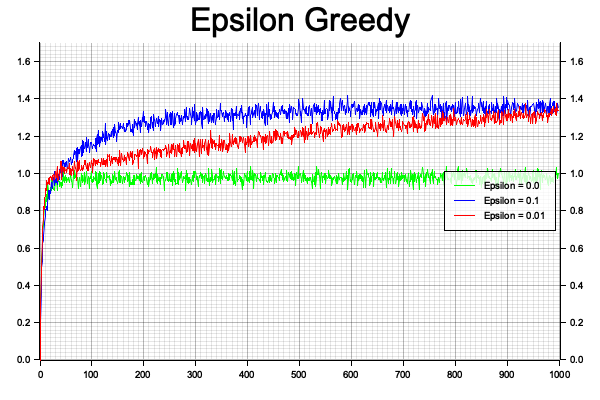
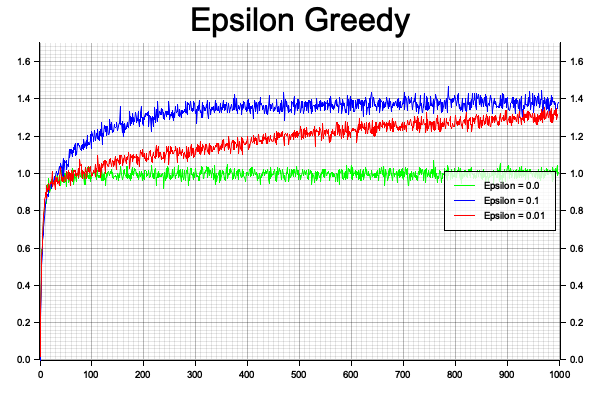
Update state action responsibility

Changed region(s): [[0.06, 0.21, 0.93, 0.6], [0.06, 0.72, 0.09, 0.75], [0.06, 0.63, 0.09, 0.66]]

diff --git a/src/agent.rs b/src/agent.rs
@@ -5,23 +5,39 @@ pub struct Agent<T: Environment, U: Selector, S: Store> {
     selector: U,
     q_store: S,
     state_value_store: S,
+    store_action_count: S,
+    total_actions_taken: usize,
 }
 
 impl<T: Environment, U: Selector, S: Store> Agent<T, U, S> {
-    pub fn new(environment: T, selector: U, q_store: S, state_value_store: S) -> Agent<T, U, S> {
+    pub fn new(
+        environment: T,
+        selector: U,
+        q_store: S,
+        state_value_store: S,
+        store_action_count: S
+    ) -> Agent<T, U, S> {
         Agent {
             environment,
             selector,
             q_store: q_store,
             state_value_store: state_value_store,
+            store_action_count,
+            total_actions_taken: 0,
         }
     }
 
     pub fn select_action(&mut self) -> usize {
-        self.selector.select_action(&mut self.environment, &self.q_store)
+        self.selector.select_action(&mut self.environment, &self.q_store, &self.store_action_count)
     }
 
     pub fn take_action(&mut self, action: usize) -> f64 {
+        // record action taken
+        let current_state = self.environment.get_state();
+        let id = self.store_action_count.generate_id(current_state, action);
+        let current_count = self.store_action_count.get_float(&id);
+        self.store_action_count.store_float(id, current_count + 1.0);
+        // take step
         self.environment.step(action)
     }
 
@@ -29,6 +45,7 @@ impl<T: Environment, U: Selector, S: Store> Agent<T, U, S> {
         let new_estimate = self.selector.get_new_q_estimate(
             &mut self.environment,
             &mut self.q_store,
+            &mut self.store_action_count,
             state,
             action,
             reward
@@ -50,10 +67,11 @@ impl<T: Environment, U: Selector, S: Store> Agent<T, U, S> {
 
     pub fn get_q_estimate(&self, state: usize, action: usize) -> f64 {
         let id = self.generate_id(state, action);
-        self.q_store.get_float(id)
+        self.q_store.get_float(&id)
     }
-    pub fn get_action_counts_by_state(&self, state: usize) -> Vec<usize> {
-        self.environment.action_counts_by_state(state)
+
+    pub fn get_total_actions_taken(&self) -> usize {
+        self.total_actions_taken
     }
 
     fn generate_id(&self, state: usize, action: usize) -> String {
@@ -61,12 +79,20 @@ impl<T: Environment, U: Selector, S: Store> Agent<T, U, S> {
     }
 }
 
+pub trait State {}
+
 pub trait Selector {
-    fn select_action<T: Environment, S: Store>(&self, environment: &mut T, store: &S) -> usize;
+    fn select_action<T: Environment, S: Store>(
+        &self,
+        environment: &mut T,
+        store: &S,
+        store_action_count: &S
+    ) -> usize;
     fn get_new_q_estimate<T: Environment, S: Store>(
         &self,
         environment: &mut T,
         store: &S,
+        store_action_count: &S,
         state: usize,
         action: usize,
         reward: f64

diff --git a/src/environments/blackjack.rs b/src/environments/blackjack.rs
@@ -1,9 +1,12 @@
 use rand::Rng;
 
+use crate::environment::Environment;
+
 pub struct Blackjack {
     pub dealer: Dealer,
     pub player: Player,
     pub is_player_turn: bool,
+    pub step_count: usize,
 }
 
 pub struct Dealer {
@@ -36,34 +39,44 @@ impl Blackjack {
             dealer: Dealer::new(),
             player: Player::new(),
             is_player_turn: true,
+            step_count: 0,
         }
     }
+}
 
-    pub fn reset(&mut self) {
+impl Environment for Blackjack {
+    fn reset(&mut self) {
         self.dealer = Dealer::new();
         self.player = Player::new();
         self.is_player_turn = true;
     }
 
-    pub fn step(&mut self, action: usize) -> f64 {
+    fn step(&mut self, action: usize) -> f64 {
         if self.is_player_turn {
             match action {
+                // hit case
                 0 => self.player.draw_card(),
+                // stay case
                 1 => {
                     self.is_player_turn = false;
                 }
                 _ => panic!("Invalid action"),
             }
         } else {
+            // play fixed dealer strategy if not player's turn
             while self.dealer.get_sum() < 17 {
                 self.dealer.draw_card();
             }
         }
+        // check if player busted
         if self.is_player_turn {
+            self.step_count += 1;
             if self.player.did_bust() {
                 return -1.0;
             }
         } else {
+            // if player is still alive comapre hand vs dealer's
+            // and return appropriate reward
             if self.dealer.did_bust() {
                 return 1.0;
             } else if self.dealer.get_sum() > self.player.get_sum() {
@@ -75,6 +88,35 @@ impl Blackjack {
             }
         }
         0.0
+    }
+
+    fn get_state(&self) -> usize {
+        let player_sum = self.player.get_sum();
+        let dealer_sum = self.dealer.get_sum();
+        let usable_ace = self.player.usable_ace;
+        // here we are using a simple encoding of the state
+        let state = (player_sum - 12) * 9 * 2 + (dealer_sum - 2) * 2 + (usable_ace as i32);
+        state as usize
+    }
+
+    fn get_actions(&self) -> Vec<usize> {
+        vec![0, 1]
+    }
+
+    fn is_terminal(&self) -> bool {
+        self.player.did_bust() || self.dealer.did_bust()
+    }
+
+    fn get_number_of_possible_actions(&self) -> usize {
+        2
+    }
+
+    fn get_number_of_possible_states(&self) -> usize {
+        9 * 10 * 2
+    }
+
+    fn get_total_number_of_actions_taken(&self) -> usize {
+        self.step_count
     }
 }
 

diff --git a/src/selectors/ucb.rs b/src/selectors/ucb.rs
@@ -13,7 +13,12 @@ impl UCBSelector {
 }
 
 impl Selector for UCBSelector {
-    fn select_action<T: Environment, S: Store>(&self, environment: &mut T, store: &S) -> usize {
+    fn select_action<T: Environment, S: Store>(
+        &self,
+        environment: &mut T,
+        store: &S,
+        store_action_count: &S
+    ) -> usize {
         let mut max: f64 = 0.0;
         let mut max_index = 0;
         let num_actions = environment.get_number_of_possible_actions();
@@ -21,11 +26,13 @@ impl Selector for UCBSelector {
         let state = environment.get_state();
         for i in 0..num_actions {
             let id = store.generate_id(state, i);
-            let current_value_estimate = store.get_float(id);
-            let number_of_actions_for_state = environment.get_action_count_by_state(state, i);
+            let current_value_estimate = store.get_float(&id);
+            let action_count_id = store_action_count.generate_id(state, i);
+            // number of actions for state action pair
+            let state_action_count = store_action_count.get_float(&action_count_id);
             let confidence = (
                 (self.confidence_level * (num_pulls as f64).ln()) /
-                (number_of_actions_for_state as f64)
+                (state_action_count as f64)
             ).sqrt();
 
             let ucb = current_value_estimate + confidence;
@@ -41,13 +48,15 @@ impl Selector for UCBSelector {
         &self,
         environment: &mut T,
         store: &S,
+        store_action_count: &S,
         state: usize,
         action: usize,
         reward: f64
     ) -> f64 {
-        let current_pulls = environment.get_action_count_by_state(state, action);
+        let action_id = store_action_count.generate_id(state, action);
+        let current_pulls = store_action_count.get_float(&action_id);
         let id = store.generate_id(state, action);
-        let current_action_value_estimate = store.get_float(id);
+        let current_action_value_estimate = store.get_float(&id);
         let new_action_value_estimate =
             current_action_value_estimate +
             (1.0 / (current_pulls as f64)) * (reward - current_action_value_estimate);

diff --git a/src/selectors/epsilon_greedy.rs b/src/selectors/epsilon_greedy.rs
@@ -15,7 +15,12 @@ impl EpsilonGreedySelector {
 }
 
 impl Selector for EpsilonGreedySelector {
-    fn select_action<T: Environment, S: Store>(&self, environment: &mut T, store: &S) -> usize {
+    fn select_action<T: Environment, S: Store>(
+        &self,
+        environment: &mut T,
+        store: &S,
+        _store_action_count: &S
+    ) -> usize {
         let mut rng = rand::thread_rng();
         let state = environment.get_state();
         // generate random number between 0 and 1
@@ -28,7 +33,7 @@ impl Selector for EpsilonGreedySelector {
             let mut max_index = 0;
             for i in 0..number_of_possible_actions {
                 let id = store.generate_id(state, i);
-                let current_q_estimate = store.get_float(id);
+                let current_q_estimate = store.get_float(&id);
                 if current_q_estimate >= max {
                     max = current_q_estimate;
                     max_index = i;
@@ -42,13 +47,15 @@ impl Selector for EpsilonGreedySelector {
         &self,
         environment: &mut T,
         store: &S,
+        store_action_count: &S,
         state: usize,
         action: usize,
         reward: f64
     ) -> f64 {
-        let current_pulls = environment.get_action_count_by_state(state, action);
+        let action_id = store_action_count.generate_id(state, action);
+        let current_pulls = store_action_count.get_float(&action_id);
         let id = store.generate_id(state, action);
-        let current_q_estimate = store.get_float(id);
+        let current_q_estimate = store.get_float(&id);
         let new_q_estimate =
             current_q_estimate + (1.0 / (current_pulls as f64)) * (reward - current_q_estimate);
         new_q_estimate

diff --git a/src/environments/bandit.rs b/src/environments/bandit.rs
@@ -169,11 +169,6 @@ impl Environment for KArmedBandit {
         false
     }
 
-    fn get_value_estimate(&self, _state: usize) -> f64 {
-        // do nothing
-        panic!("Not implemented")
-    }
-
     fn get_number_of_possible_actions(&self) -> usize {
         self.k
     }
@@ -182,18 +177,7 @@ impl Environment for KArmedBandit {
         1
     }
 
-    fn get_action_count_by_state(&self, _state: usize, action: usize) -> usize {
-        self.get_number_of_pulls_by_index(action)
-    }
-
     fn get_total_number_of_actions_taken(&self) -> usize {
         self.num_pulls
-    }
-    fn action_counts_by_state(&self, _state: usize) -> Vec<usize> {
-        let mut action_counts = vec![];
-        for i in 0..self.k {
-            action_counts.push(self.get_number_of_pulls_by_index(i));
-        }
-        action_counts
     }
 }

diff --git a/src/store.rs b/src/store.rs
@@ -1,11 +1,11 @@
 use std::collections::HashMap;
 
-pub trait Store{
+pub trait Store {
     fn generate_id(&self, state: usize, action: usize) -> String {
         format!("{}-{}", state, action)
     }
     fn store_float(&mut self, key: String, value: f64);
-    fn get_float(&self, key: String) -> f64;
+    fn get_float(&self, key: &String) -> f64;
     fn new() -> Self;
 }
 
@@ -17,10 +17,10 @@ impl Store for MemoryStore {
     fn store_float(&mut self, key: String, value: f64) {
         self.store.insert(key, value);
     }
-    fn get_float(&self, key: String) -> f64 {
-        match self.store.get(&key) {
+    fn get_float(&self, key: &String) -> f64 {
+        match self.store.get(key) {
             Some(value) => *value,
-            None => 0.0
+            None => 0.0,
         }
     }
     fn new() -> MemoryStore {

diff --git a/src/bin/k_armed_bandit_ucb.rs b/src/bin/k_armed_bandit_ucb.rs
@@ -121,7 +121,14 @@ fn run_for_given_confidence(
         let selector = UCBSelector::new(confidence);
         let q_store = MemoryStore::new();
         let state_value_store = MemoryStore::new();
-        let mut agent = agent::Agent::new(k_armed_bandit, selector, q_store, state_value_store);
+        let store_action_count = MemoryStore::new();
+        let mut agent = agent::Agent::new(
+            k_armed_bandit,
+            selector,
+            q_store,
+            state_value_store,
+            store_action_count
+        );
         for _ in 0..num_steps {
             let action = agent.select_action();
             let reward = agent.take_action(action);

diff --git a/src/bin/k_armed_bandit_epsilon_greedy.rs b/src/bin/k_armed_bandit_epsilon_greedy.rs
@@ -106,7 +106,14 @@ fn run_for_given_epsilon(
         let selector = EpsilonGreedySelector::new(epsilon);
         let q_store = MemoryStore::new();
         let state_value_store = MemoryStore::new();
-        let mut agent = Agent::new(k_armed_bandit, selector, q_store, state_value_store);
+        let store_action_count = MemoryStore::new();
+        let mut agent = Agent::new(
+            k_armed_bandit,
+            selector,
+            q_store,
+            state_value_store,
+            store_action_count
+        );
         for _ in 0..num_steps {
             let action = agent.select_action();
             let reward = agent.take_action(action);

diff --git a/src/environment.rs b/src/environment.rs
@@ -8,10 +8,7 @@ pub trait Environment {
     fn get_state(&self) -> usize;
     fn get_actions(&self) -> Vec<usize>;
     fn is_terminal(&self) -> bool;
-    fn get_value_estimate(&self, state: usize) -> f64;
     fn get_number_of_possible_actions(&self) -> usize;
     fn get_number_of_possible_states(&self) -> usize;
-    fn get_action_count_by_state(&self, state: usize, action: usize) -> usize;
     fn get_total_number_of_actions_taken(&self) -> usize;
-    fn action_counts_by_state(&self, state: usize) -> Vec<usize>;
 }
